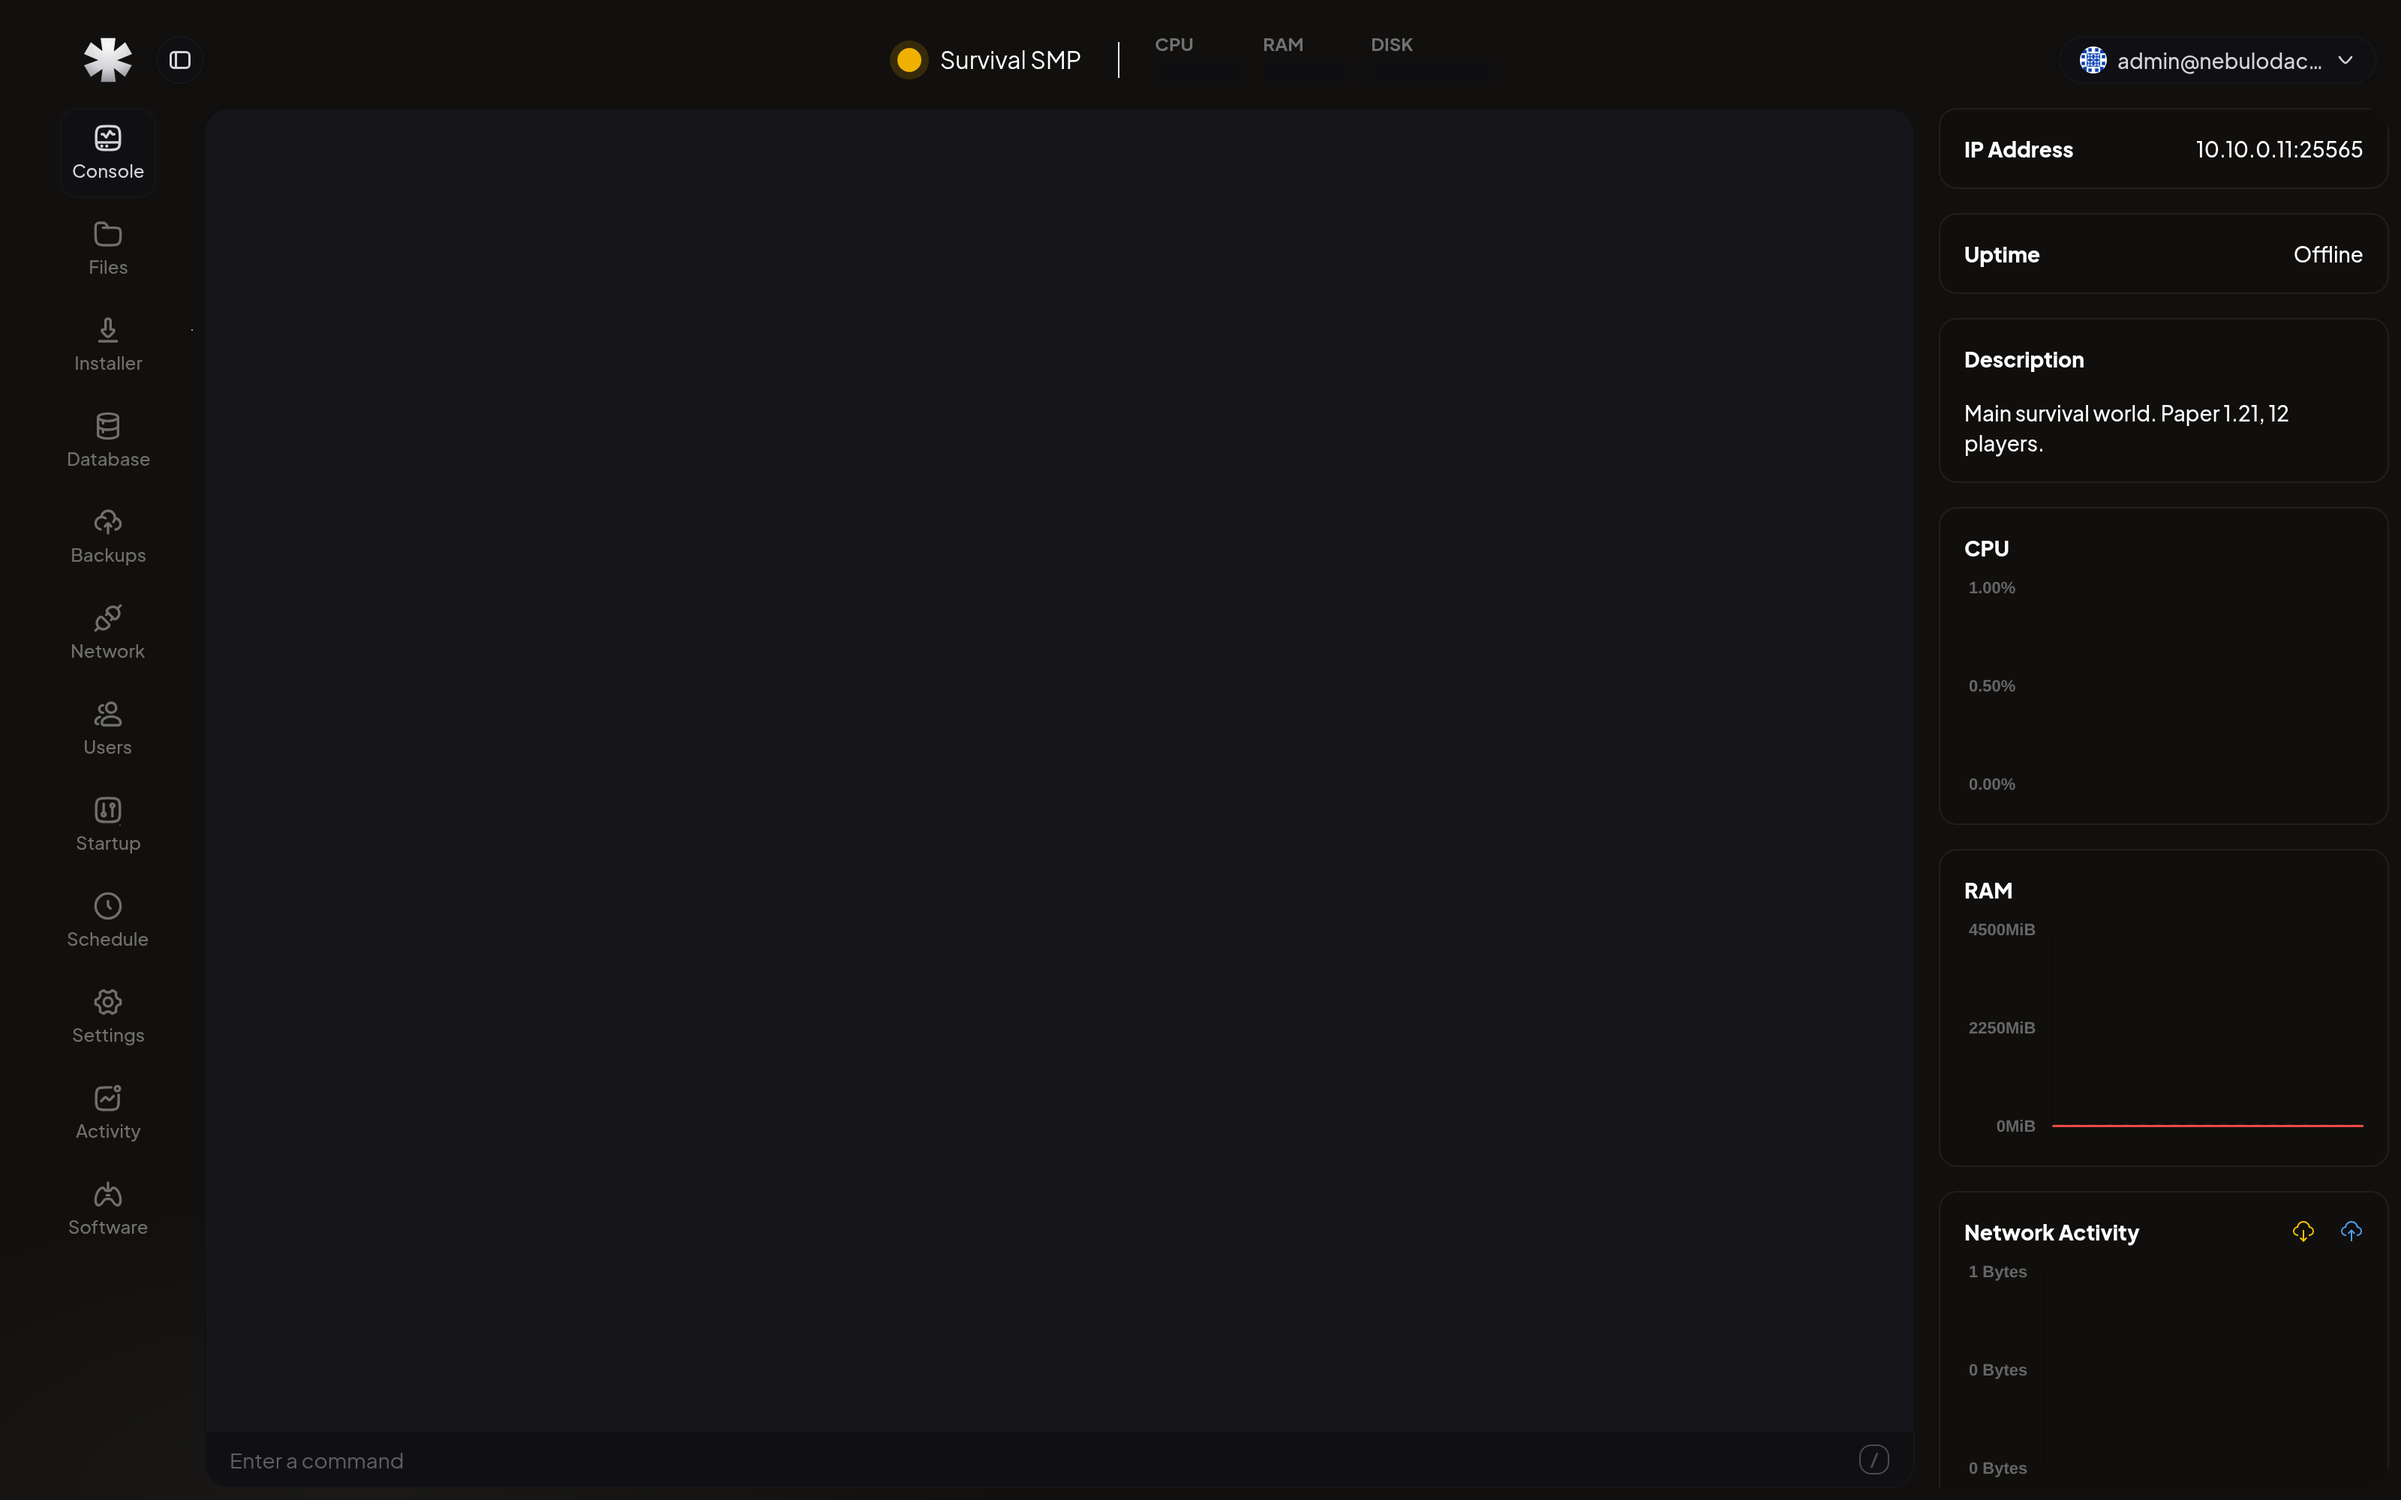
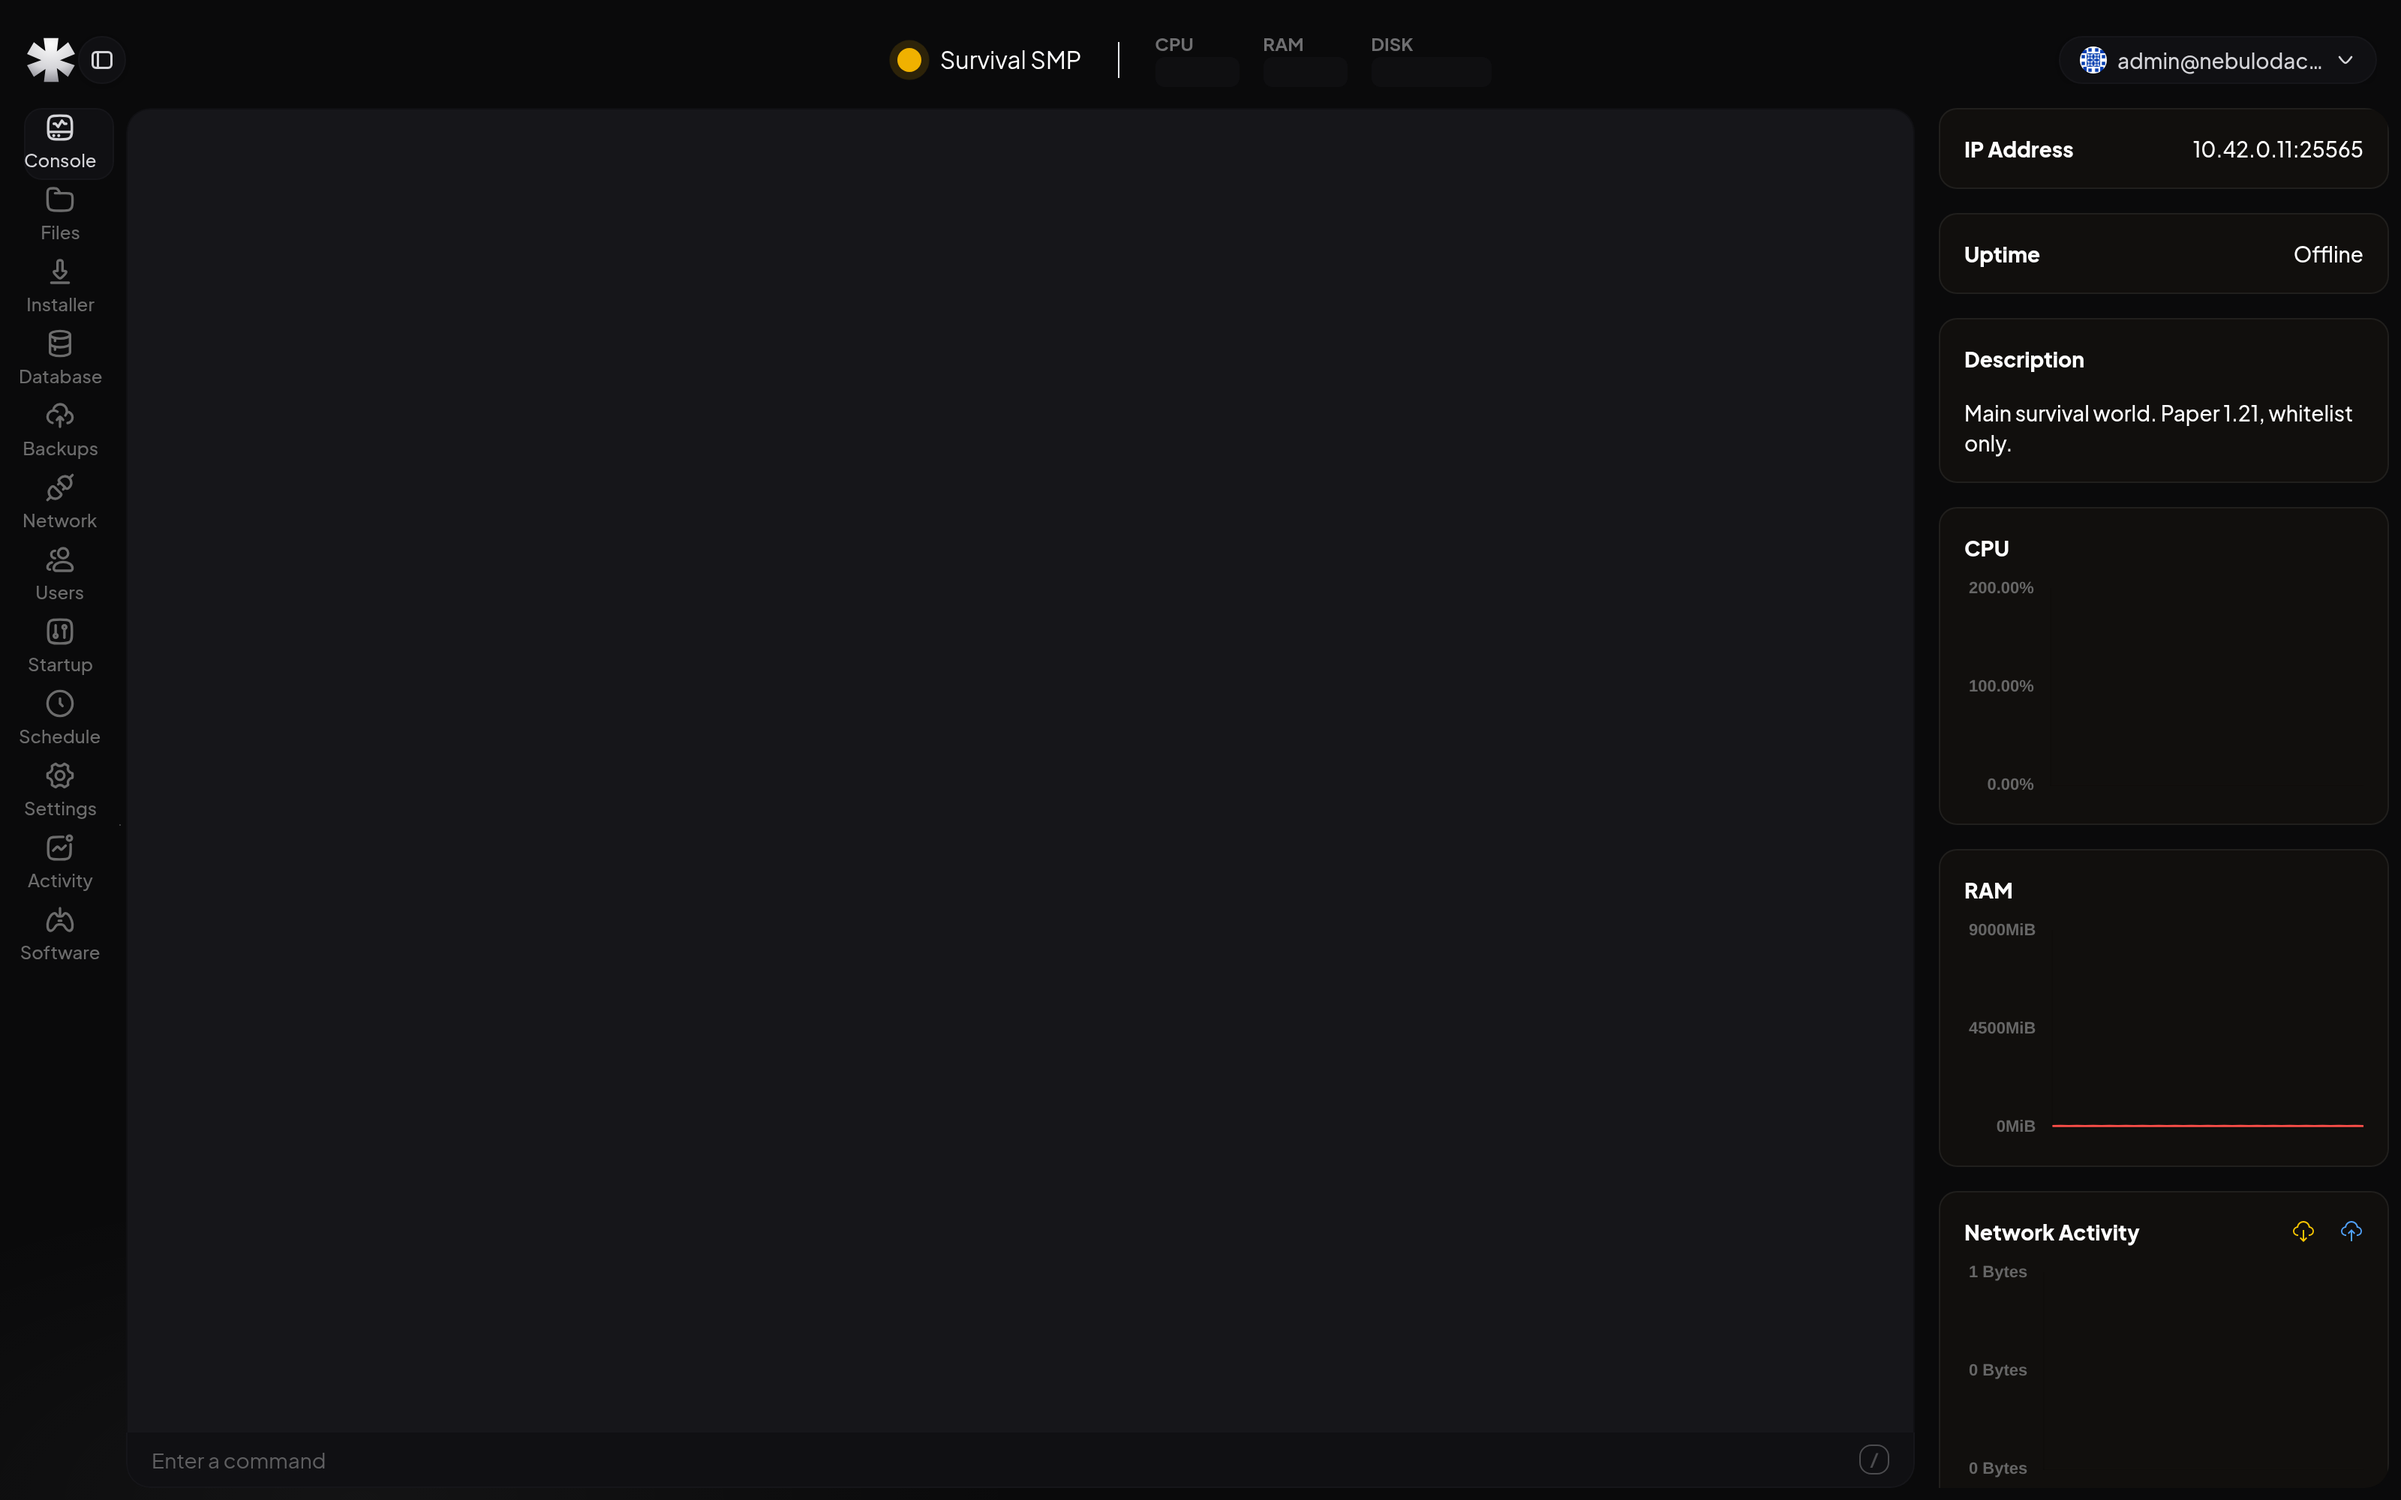
chore: richer showcase seed data and more screenshots
Seed a more realistic demo environment for screenshots: two nodes
including one reachable over the Nebula overlay, six servers across
Paper, Velocity, Fabric, Rust, Vintage Story, and TeamSpeak, plus
extra allocations, a daily restart schedule, databases, and a
subuser.

Capture the network and schedule views in addition to login,
dashboard, and console, and add all of them to the marketing page.
Make the marketing navbar sticky while scrolling.

diff --git a/marketing/index.html b/marketing/index.html
@@ -78,8 +78,9 @@
     header {
         border-bottom: 1px solid var(--border);
         padding: 20px 0;
-        position: relative;
-        z-index: 1;
+        position: sticky;
+        top: 0;
+        z-index: 10;
         background: rgb(10 10 11 / 0.78);
         backdrop-filter: blur(14px);
     }
@@ -375,6 +376,14 @@
                 <figure class="shot">
                     <img class="shot-img" src="showcase/panel-console.png" alt="Nebulodactyl server console view in the dark theme" loading="lazy">
                     <figcaption>Server console</figcaption>
+                </figure>
+                <figure class="shot">
+                    <img class="shot-img" src="showcase/panel-network.png" alt="Nebulodactyl network allocation management view" loading="lazy">
+                    <figcaption>Network allocations</figcaption>
+                </figure>
+                <figure class="shot">
+                    <img class="shot-img" src="showcase/panel-schedules.png" alt="Nebulodactyl scheduled tasks view" loading="lazy">
+                    <figcaption>Schedules</figcaption>
                 </figure>
             </div>
         </div>

diff --git a/tools/screenshots/seed.php b/tools/screenshots/seed.php
@@ -1,15 +1,20 @@
 <?php
 
-// Seeds a demo environment for screenshots: an admin user, one location,
-// one node, and a few servers. Only run this against a throwaway database.
+// Seeds a demo environment for screenshots: an admin user, two locations,
+// two nodes (one reachable over the Nebula overlay), and several servers
+// with realistic settings. Only run this against a throwaway database.
 
 use Ramsey\Uuid\Uuid;
 use Pterodactyl\Models\Egg;
 use Pterodactyl\Models\Node;
+use Pterodactyl\Models\Task;
 use Pterodactyl\Models\User;
 use Pterodactyl\Models\Server;
+use Pterodactyl\Models\Schedule;
 use Pterodactyl\Models\Location;
 use Pterodactyl\Models\Allocation;
+use Pterodactyl\Models\Database;
+use Pterodactyl\Models\DatabaseHost;
 
 require dirname(__DIR__, 2) . '/vendor/autoload.php';
 
@@ -32,18 +37,55 @@ $admin = User::query()->firstOrCreate(
     ]
 );
 
-$location = Location::query()->firstOrCreate(
-    ['short' => 'home'],
-    ['long' => 'Homelab']
+$operator = User::query()->firstOrCreate(
+    ['email' => 'ops@nebulodactyl.dev'],
+    [
+        'uuid' => Uuid::uuid4()->toString(),
+        'username' => 'ops',
+        'name_first' => 'Ops',
+        'name_last' => 'User',
+        'password' => bcrypt('ops'),
+        'language' => 'en',
+        'root_admin' => false,
+        'use_totp' => false,
+    ]
 );
 
-$node = Node::query()->firstOrCreate(
+$home = Location::query()->firstOrCreate(['short' => 'home'], ['long' => 'Homelab']);
+$overlay = Location::query()->firstOrCreate(['short' => 'nbl'], ['long' => 'Nebula overlay']);
+
+$nodeMain = Node::query()->firstOrCreate(
     ['name' => 'node-01'],
     [
         'uuid' => Uuid::uuid4()->toString(),
-        'location_id' => $location->id,
+        'location_id' => $home->id,
         'fqdn' => 'node-01.internal',
         'internal_fqdn' => '10.42.0.11',
+        'scheme' => 'http',
+        'behind_proxy' => false,
+        'public' => true,
+        'maintenance_mode' => false,
+        'memory' => 65536,
+        'memory_overallocate' => 0,
+        'disk' => 1048576,
+        'disk_overallocate' => 0,
+        'upload_size' => 100,
+        'daemon_token_id' => 'demo',
+        'daemon_token' => 'demo',
+        'daemonType' => 'comet',
+        'daemonListen' => 8080,
+        'daemonSFTP' => 2022,
+        'daemonBase' => '/var/lib/comet/volumes',
+    ]
+);
+
+$nodeOverlay = Node::query()->firstOrCreate(
+    ['name' => 'nebula-01'],
+    [
+        'uuid' => Uuid::uuid4()->toString(),
+        'location_id' => $overlay->id,
+        'fqdn' => 'nebula-01.mesh',
+        'internal_fqdn' => '192.168.100.12',
         'scheme' => 'http',
         'behind_proxy' => false,
         'public' => true,
@@ -53,29 +95,106 @@ $node = Node::query()->firstOrCreate(
         'disk' => 524288,
         'disk_overallocate' => 0,
         'upload_size' => 100,
-        'daemon_token_id' => 'demo',
-        'daemon_token' => 'demo',
+        'daemon_token_id' => 'demo2',
+        'daemon_token' => 'demo2',
+        'daemonType' => 'comet',
         'daemonListen' => 8080,
         'daemonSFTP' => 2022,
-        'daemonBase' => '/var/lib/panel/volumes',
+        'daemonBase' => '/var/lib/comet/volumes',
     ]
 );
 
-$port = 25565;
 $servers = [
-    ['name' => 'Survival SMP', 'egg' => 'Paper', 'desc' => 'Main survival world. Paper 1.21, 12 players.'],
-    ['name' => 'Creative Lobby', 'egg' => 'Vanilla Minecraft', 'desc' => 'Flat creative world for building tests.'],
-    ['name' => 'Rust Staging', 'egg' => 'Rust', 'desc' => 'Wipe-day staging server.'],
+    [
+        'name' => 'Survival SMP',
+        'egg' => 'Paper',
+        'node' => $nodeMain,
+        'ip' => '10.42.0.11',
+        'port' => 25565,
+        'desc' => 'Main survival world. Paper 1.21, whitelist only.',
+        'image' => 'ghcr.io/pterodactyl/yolks:java_21',
+        'startup' => 'java -Xms128M -Xmx{{SERVER_MEMORY}}M -jar {{SERVER_JARFILE}}',
+        'memory' => 8192,
+        'disk' => 61440,
+        'cpu' => 200,
+    ],
+    [
+        'name' => 'Proxy Edge',
+        'egg' => 'Velocity',
+        'node' => $nodeMain,
+        'ip' => '10.42.0.11',
+        'port' => 25577,
+        'desc' => 'Velocity proxy in front of the network servers.',
+        'image' => 'ghcr.io/pterodactyl/yolks:java_21',
+        'startup' => 'java -Xms128M -Xmx{{SERVER_MEMORY}}M -jar {{SERVER_JARFILE}}',
+        'memory' => 1024,
+        'disk' => 10240,
+        'cpu' => 100,
+    ],
+    [
+        'name' => 'Modded Fabric',
+        'egg' => 'Fabric',
+        'node' => $nodeMain,
+        'ip' => '10.42.0.11',
+        'port' => 25570,
+        'desc' => 'Create + Terralith modpack, seasonal world.',
+        'image' => 'ghcr.io/pterodactyl/yolks:java_21',
+        'startup' => 'java -Xms128M -Xmx{{SERVER_MEMORY}}M -jar {{SERVER_JARFILE}}',
+        'memory' => 12288,
+        'disk' => 81920,
+        'cpu' => 300,
+    ],
+    [
+        'name' => 'Rust Main',
+        'egg' => 'Rust',
+        'node' => $nodeMain,
+        'ip' => '10.42.0.11',
+        'port' => 28015,
+        'desc' => 'Monthly wipe, 4k map, 100 slots.',
+        'image' => 'ghcr.io/pterodactyl/yolks:rust_latest',
+        'startup' => './RustDedicated -batchmode +server.port {{SERVER_PORT}}',
+        'memory' => 16384,
+        'disk' => 102400,
+        'cpu' => 400,
+    ],
+    [
+        'name' => 'Vintage Story',
+        'egg' => 'Vintage Story',
+        'node' => $nodeOverlay,
+        'ip' => '192.168.100.12',
+        'port' => 42420,
+        'desc' => 'Co-op world reachable over the Nebula overlay.',
+        'image' => 'ghcr.io/pterodactyl/yolks:dotnet_8',
+        'startup' => './VintagestoryServer',
+        'memory' => 6144,
+        'disk' => 40960,
+        'cpu' => 200,
+    ],
+    [
+        'name' => 'TeamSpeak',
+        'egg' => 'Teamspeak3 Server',
+        'node' => $nodeOverlay,
+        'ip' => '192.168.100.12',
+        'port' => 9987,
+        'desc' => 'Voice server for the group.',
+        'image' => 'ghcr.io/pterodactyl/yolks:voice_teamspeak',
+        'startup' => './ts3server',
+        'memory' => 512,
+        'disk' => 8192,
+        'cpu' => 50,
+    ],
 ];
 
 $firstId = null;
-foreach ($servers as $i => $spec) {
+$firstServer = null;
+foreach ($servers as $spec) {
     $egg = Egg::query()->where('name', $spec['egg'])->firstOrFail();
+    $node = $spec['node'];
 
     $allocation = Allocation::query()->create([
         'node_id' => $node->id,
-        'ip' => '10.10.0.11',
-        'port' => $port + $i,
+        'ip' => $spec['ip'],
+        'port' => $spec['port'],
     ]);
 
     $server = Server::factory()->create([
@@ -86,16 +205,84 @@ foreach ($servers as $i => $spec) {
         'allocation_id' => $allocation->id,
         'nest_id' => $egg->nest_id,
         'egg_id' => $egg->id,
-        'memory' => 4096,
-        'disk' => 20480,
-        'image' => 'ghcr.io/pterodactyl/yolks:java_21',
-        'startup' => 'java -Xms128M -Xmx{{SERVER_MEMORY}}M -jar {{SERVER_JARFILE}}',
+        'memory' => $spec['memory'],
+        'disk' => $spec['disk'],
+        'cpu' => $spec['cpu'],
+        'image' => $spec['image'],
+        'startup' => $spec['startup'],
     ]);
 
     $allocation->update(['server_id' => $server->id]);
 
     $firstId ??= $server->uuidShort;
+    $firstServer ??= $server;
 }
+
+// Extra allocations so the networking page shows a real list.
+foreach ([25566, 25567, 8123] as $port) {
+    Allocation::query()->create([
+        'node_id' => $nodeMain->id,
+        'server_id' => $firstServer->id,
+        'ip' => '10.42.0.11',
+        'port' => $port,
+    ]);
+}
+
+// A daily restart schedule with one command task.
+$schedule = Schedule::factory()->create([
+    'server_id' => $firstServer->id,
+    'name' => 'Daily restart',
+    'cron_minute' => '0',
+    'cron_hour' => '5',
+    'cron_day_of_month' => '*',
+    'cron_day_of_week' => '*',
+    'is_active' => true,
+    'is_processing' => false,
+]);
+
+Task::factory()->create([
+    'schedule_id' => $schedule->id,
+    'action' => 'command',
+    'payload' => 'say Restarting in 60 seconds',
+    'time_offset' => 0,
+    'sequence_id' => 1,
+]);
+
+Task::factory()->create([
+    'schedule_id' => $schedule->id,
+    'action' => 'power',
+    'payload' => 'restart',
+    'time_offset' => 60,
+    'sequence_id' => 2,
+]);
+
+// A database host plus databases for the two biggest servers.
+$dbHost = DatabaseHost::factory()->create([
+    'name' => 'db-01',
+    'host' => '10.42.0.20',
+    'port' => 3306,
+    'username' => 'panel',
+    'password' => 'panel',
+    'node_id' => $nodeMain->id,
+]);
+
+foreach (['Survival SMP', 'Modded Fabric'] as $name) {
+    $server = Server::query()->where('name', $name)->firstOrFail();
+    Database::factory()->create([
+        'server_id' => $server->id,
+        'database_host_id' => $dbHost->id,
+        'database' => 's' . $server->id . '_main',
+        'username' => 'u' . $server->id . '_main',
+    ]);
+}
+
+// Give the operator account subuser access to the Rust server.
+$rust = Server::query()->where('name', 'Rust Main')->firstOrFail();
+Pterodactyl\Models\Subuser::factory()->create([
+    'server_id' => $rust->id,
+    'user_id' => $operator->id,
+    'permissions' => ['*'],
+]);
 
 Illuminate\Database\Eloquent\Model::reguard();
 
